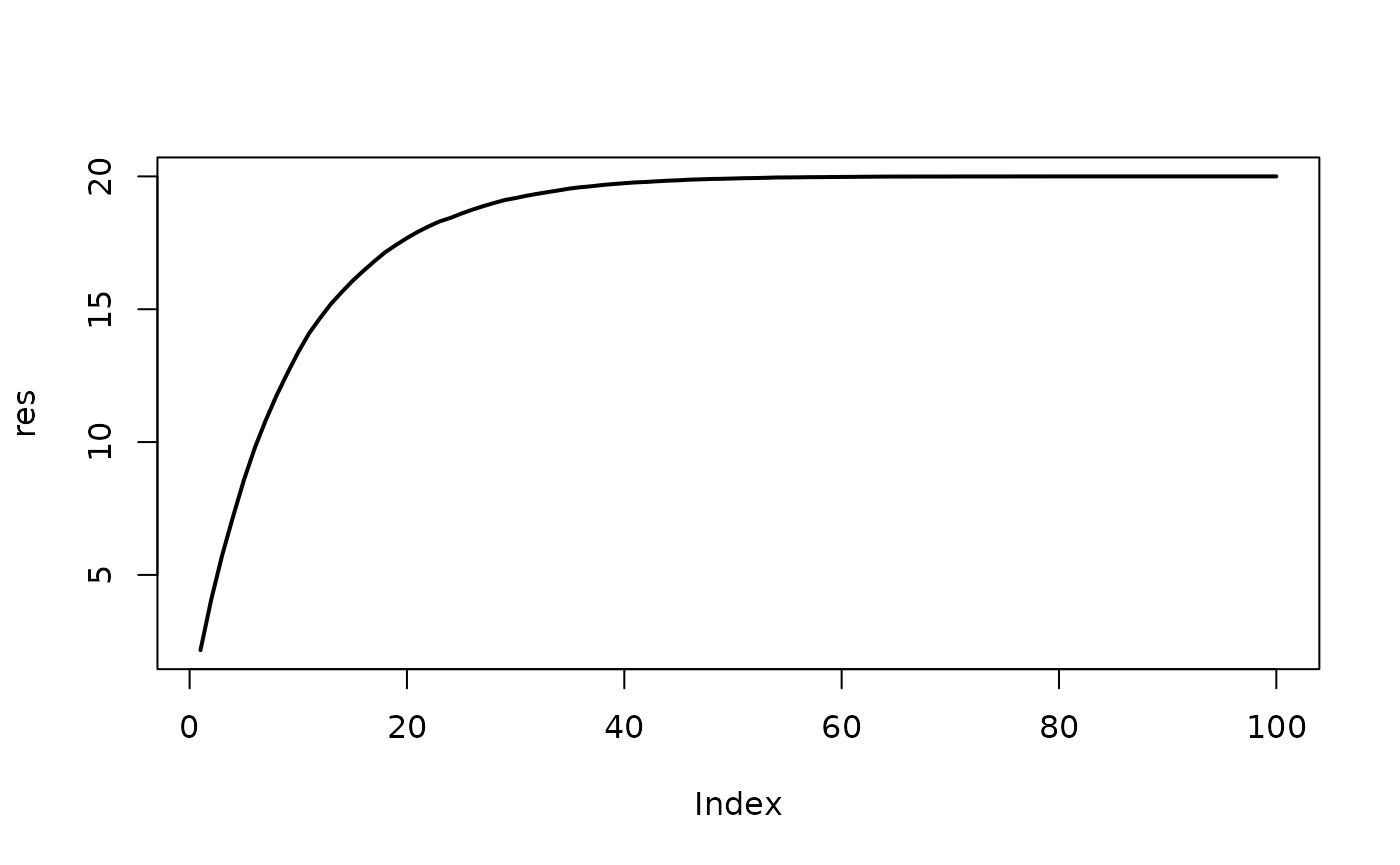
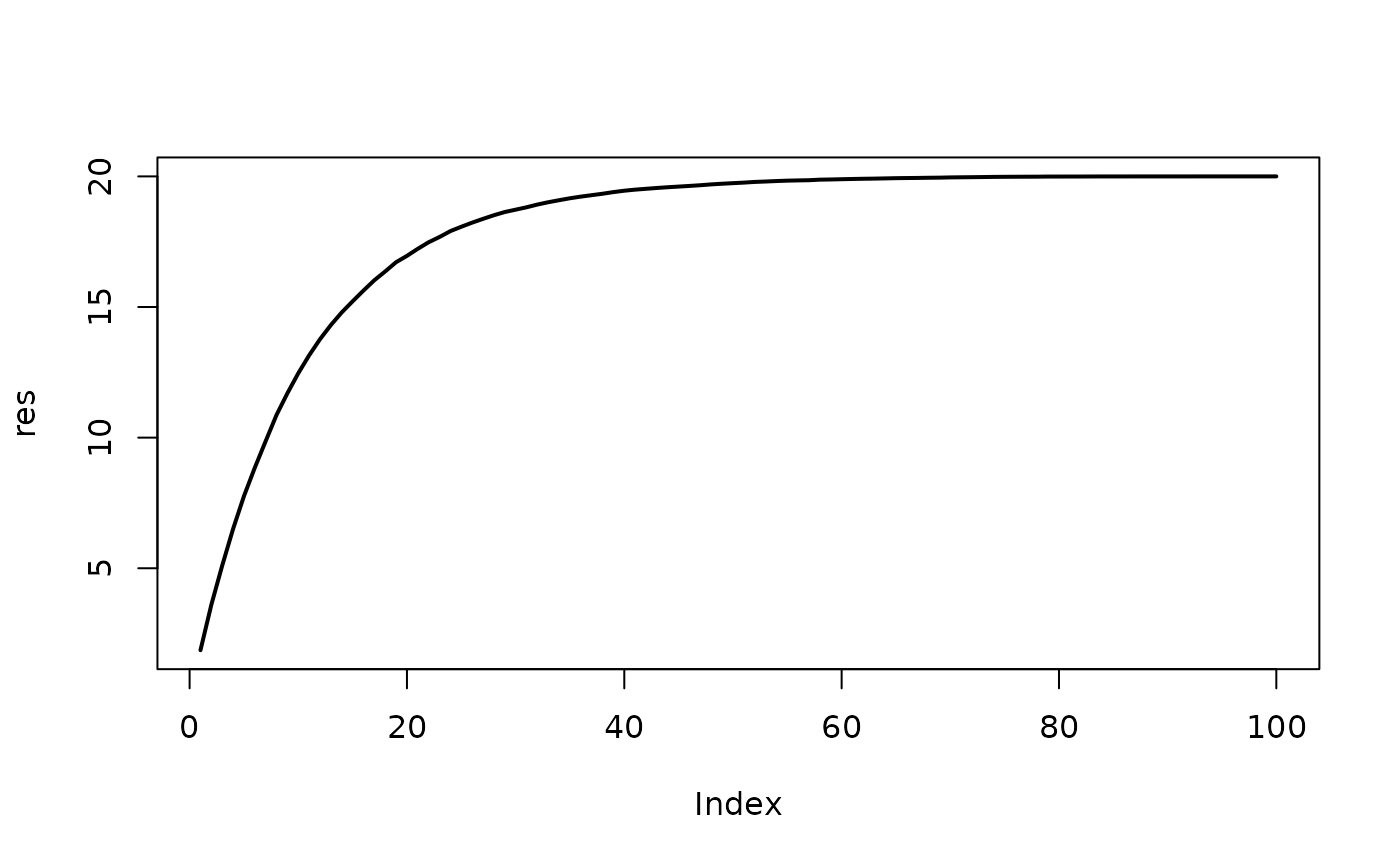
deploy: e5f9ab56a0009e7d8583dcb76e094cf1fbc00151

diff --git a/articles/get_started.html b/articles/get_started.html
@@ -105,7 +105,7 @@
 <div class="sourceCode" id="cb1"><pre class="downlit sourceCode r">
 <code class="sourceCode R"><span class="va">mat</span> <span class="op">&lt;-</span> <span class="fu"><a href="https://rdrr.io/r/base/matrix.html">matrix</a></span><span class="op">(</span><span class="fu">stats</span><span class="fu">::</span><span class="fu"><a href="https://rdrr.io/r/stats/Uniform.html">runif</a></span><span class="op">(</span><span class="fl">2000</span><span class="op">)</span><span class="op">&gt;</span><span class="fl">.9</span>, ncol <span class="op">=</span> <span class="fl">20</span><span class="op">)</span>
 <span class="va">res</span> <span class="op">&lt;-</span> <span class="fu"><a href="https://rdrr.io/r/base/apply.html">apply</a></span><span class="op">(</span><span class="fu"><a href="../reference/ec_rarefaction.html">ec_rarefaction</a></span><span class="op">(</span><span class="va">mat</span>, <span class="fl">1000</span><span class="op">)</span>, <span class="fl">1</span>, <span class="va">mean</span><span class="op">)</span></code></pre></div>
-<pre><code>#&gt;  ⚠ Empty site(s): 10, 29, 30, 33, 35, 57, 66, 73, 99</code></pre>
+<pre><code>#&gt;  ⚠ Empty site(s): 3, 9, 26, 27, 41, 48, 53, 54, 57, 62, 67, 75, 77, 82, 83, 85, 87, 88, 93</code></pre>
 <div class="sourceCode" id="cb3"><pre class="downlit sourceCode r">
 <code class="sourceCode R"><span class="fu"><a href="https://rdrr.io/r/graphics/plot.default.html">plot</a></span><span class="op">(</span><span class="va">res</span>, type <span class="op">=</span> <span class="st">"l"</span>, lwd <span class="op">=</span> <span class="fl">2</span><span class="op">)</span></code></pre></div>
 <p><img src="get_started_files/figure-html/unnamed-chunk-1-1.png" width="700" style="display: block; margin: auto;"></p>
